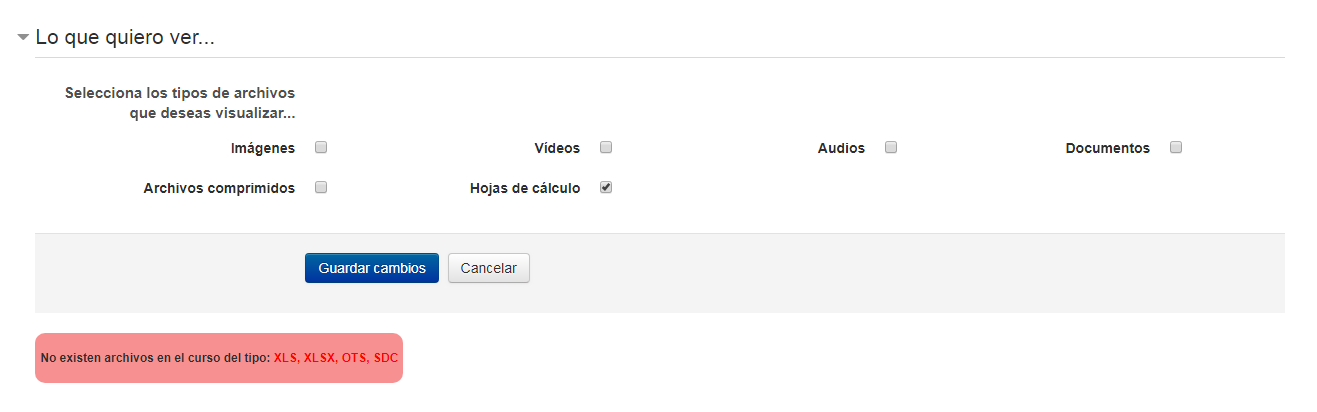
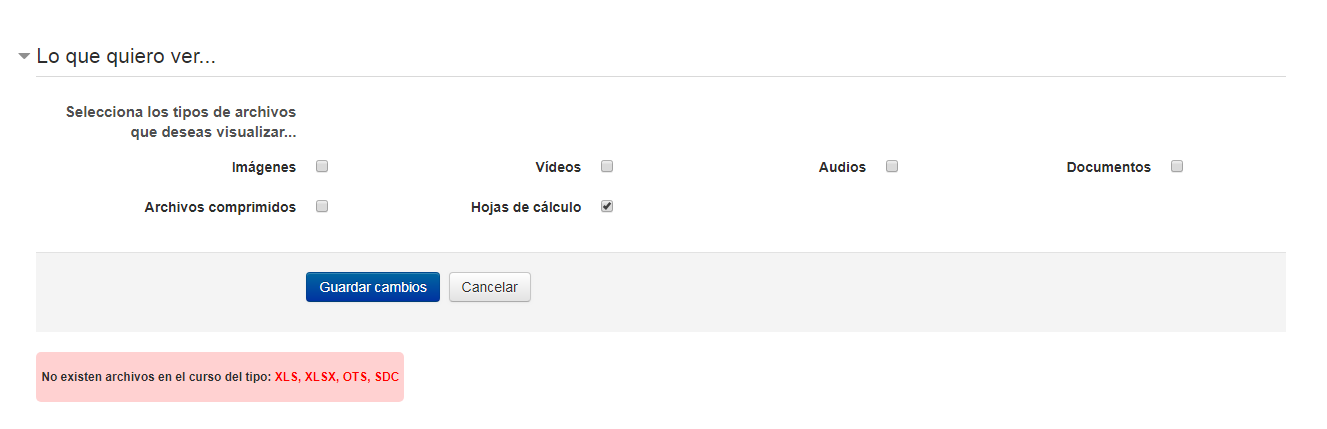
3

diff --git a/styles.css b/styles.css
@@ -17,8 +17,8 @@
     padding: 5px;
     margin-right: auto;
     margin-left: auto;
-    border-radius: 10px 10px 10px 10px;
-    background-color: #f89a9a;
+    border-radius: 5px 5px 5px 5px;
+    background-color: #ffd6d6;
 }
 .vacios b {
     color:red;       
